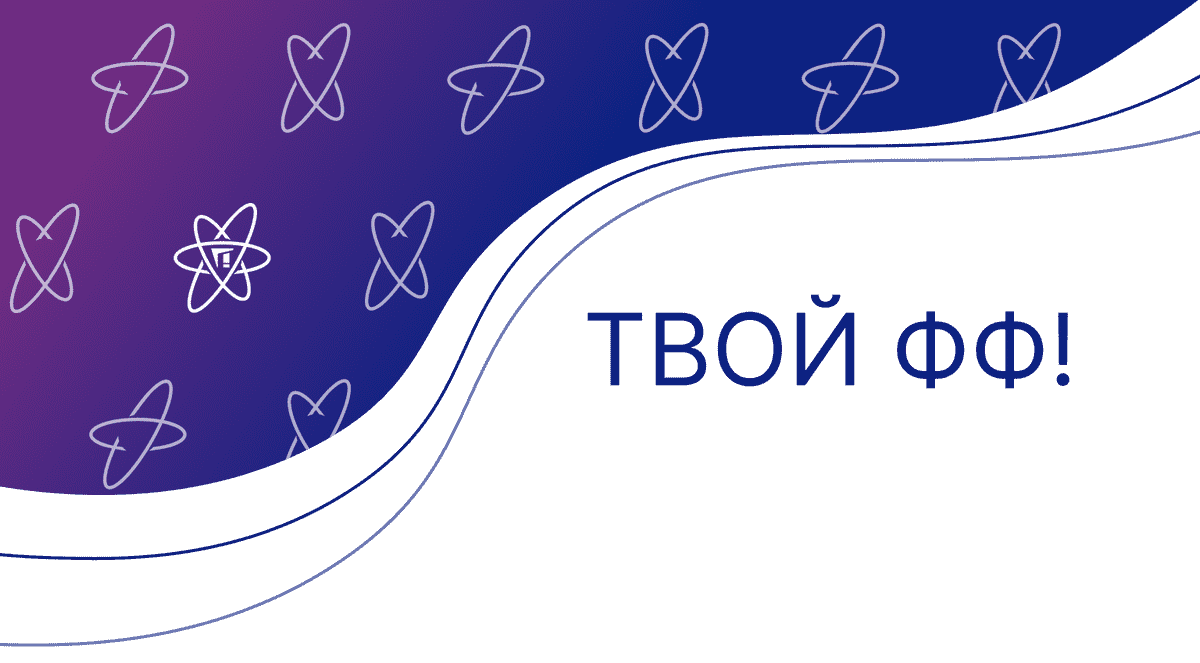
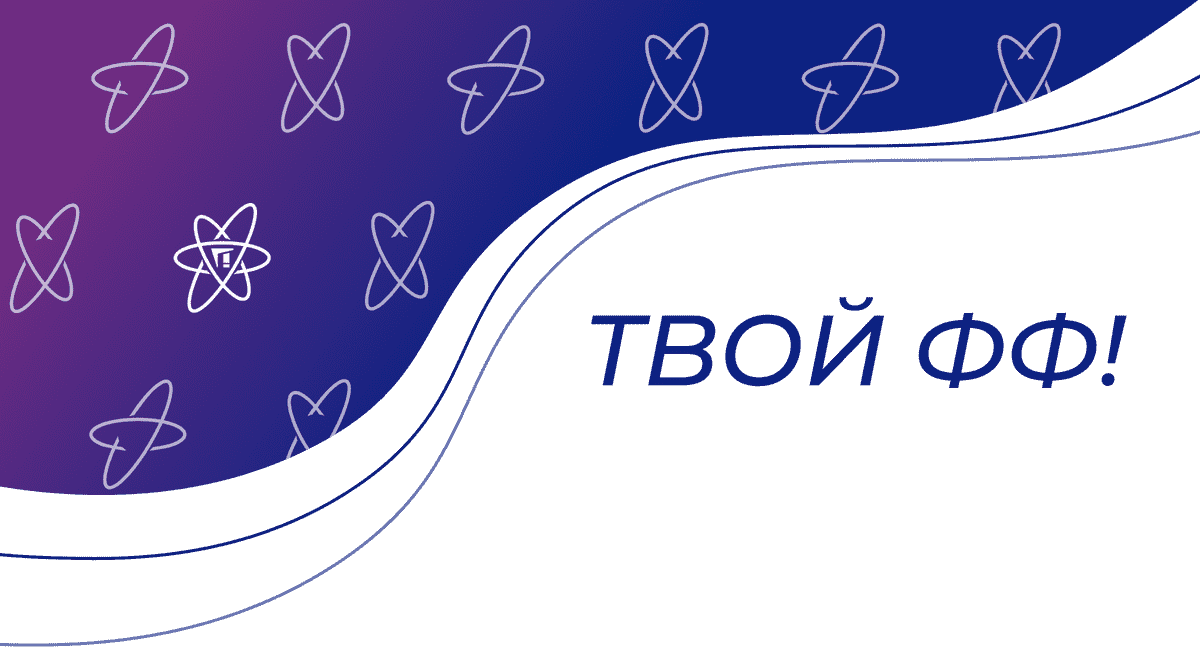
- fix fonts and change texts

Changed region(s): [[0.4933, 0.4223, 0.9558, 0.6033]]

diff --git a/auth_backend/templates/password_change_notification.html b/auth_backend/templates/password_change_notification.html
@@ -11,7 +11,7 @@
     <meta name="viewport" content="width=device-width, initial-scale=1.0" />
     <title>Твой ФФ!</title>
     <style type="text/css">
-      @import url("https://fonts.googleapis.com/css2?family=Montserrat:wght@700&family=Roboto:wght@400;700&display=swap");
+      @import url("https://fonts.googleapis.com/css2?family=Roboto:wght@400;500&display=swap");
     </style>
 
     <!--[if (gte mso 9)|(IE)]>
@@ -83,7 +83,7 @@
 
         <!--[if (gte mso 9)|(IE)]>
         <table width="600" align="center" border="0" cellspacing="0" cellpadding="0" role="presentation"
-          style="color:#1C1E23;">
+          style="color:#000;">
         <tr>
         <td>
       <![endif]-->
@@ -95,7 +95,7 @@
           cellpadding="0"
           role="presentation"
           style="
-            color: #1c1e23;
+            color: #000;
             font-family: 'Roboto', sans-serif, Arial, Helvetica;
             background-color: #fafdfe;
             margin: 0;
@@ -114,61 +114,28 @@
           </tr>
           <tr>
             <td align="center" style="padding-bottom: 32px">
-              <b
-                style="
-                  font-size: 24px;
-                  font-family: 'Montserrat', sans-serif, Arial, Helvetica;
-                "
-                >Пароль изменен</b
-              >
+              <h1 style="margin: 0; font-size: 24px; font-weight: 500">
+                Ваш пароль изменен
+              </h1>
             </td>
           </tr>
           <tr>
-            <td align="left" style="padding: 0 6% 32px 6%">
-              <p style="margin: 0">
-                Пароль Вашего аккаунта в приложении Твой ФФ! был изменен
-                успешно.
-              </p>
+            <td align="left" style="padding: 0 6% 16px 6%">
+              <p style="margin: 0">Здравствуйте!</p>
               <p style="margin: 16px 0 0 0">
+                Пароль от вашего аккаунта в «Твой ФФ» успешно изменен!
+              </p>
+            </td>
+          </tr>
+          <tr>
+            <td style="padding: 0 6% 64px 6%">
+              <p style="margin: 0">
                 <i
-                  >Если это были не Вы, обратитесь в Профком как можно
-                  скорее.</i
+                  >Если вы этого не делали, восстановите доступ к аккаунту,
+                  нажав кнопку «Забыли пароль» в приложении и установив более
+                  надежный пароль</i
                 >
               </p>
-            </td>
-          </tr>
-          <tr>
-            <td align="center" style="padding-bottom: 64px">
-              <table
-                border="0"
-                cellspacing="0"
-                cellpadding="0"
-                role="presentation"
-                style="
-                  border-spacing: 0;
-                  mso-cellspacing: 0;
-                  mso-padding-alt: 0;
-                "
-              >
-                <tr>
-                  <td
-                    style="
-                      background-color: #0d2283;
-                      line-height: 40px;
-                      padding: 0 22px 0 22px;
-                      border-radius: 999px;
-                    "
-                  >
-                    <a
-                      href="{{url}}"
-                      target="_blank"
-                      style="color: #fff; text-decoration: none; padding: 0"
-                    >
-                      Подтвердить
-                    </a>
-                  </td>
-                </tr>
-              </table>
             </td>
           </tr>
           <tr>

diff --git a/auth_backend/templates/main_confirmation.html b/auth_backend/templates/main_confirmation.html
@@ -11,7 +11,7 @@
     <meta name="viewport" content="width=device-width, initial-scale=1.0" />
     <title>Твой ФФ!</title>
     <style type="text/css">
-      @import url("https://fonts.googleapis.com/css2?family=Montserrat:wght@700&family=Roboto:wght@400;700&display=swap");
+      @import url("https://fonts.googleapis.com/css2?family=Roboto:wght@400;500&display=swap");
     </style>
 
     <!--[if (gte mso 9)|(IE)]>
@@ -114,22 +114,25 @@
           </tr>
           <tr>
             <td align="center" style="padding-bottom: 32px">
-              <b style="font-size: 24px; font-family: 'Montserrat', sans-serif, Arial, Helvetica;">Подтвердите свой email</b>
+              <h1 style="margin: 0; font-size: 24px; font-weight: 500">
+                Регистрация успешно пройдена!
+              </h1>
             </td>
           </tr>
           <tr>
-            <td align="left" style="padding: 0 6% 32px 6%">
-              <p style="Margin: 0">
-                Нажав кнопку, Вы подтвердите адрес электронной почты Вашего
-                акканута и получите доступ ко всем функциям приложения Твой ФФ!
+            <td align="left" style="padding: 0 6% 16px 6%">
+              <p style="margin: 0">Здравствуйте!</p>
+              <p style="margin: 16px 0 0 0">
+                Благодарим за регистрацию в «Твой ФФ». Теперь ты сможешь
+                пользоваться всем функционалом нашего приложения!
               </p>
-              <p style="Margin: 16px 0 0 0">
-                <i>Если это были не Вы, проигнорируйте это письмо.</i>
+              <p style="margin: 0">
+                Для завершения регистрации нажмите на кнопку:
               </p>
             </td>
           </tr>
           <tr>
-            <td align="center" style="padding-bottom: 64px">
+            <td align="center" style="padding: 0 6% 32px 6%">
               <table
                 border="0"
                 cellspacing="0"
@@ -160,6 +163,16 @@
                   </td>
                 </tr>
               </table>
+            </td>
+          </tr>
+          <tr>
+            <td style="padding: 0 6% 64px 6%">
+              <p style="margin: 0">
+                <i
+                  >Если вы не оставляли этот запрос, просто проигнорируйте это
+                  письмо.</i
+                >
+              </p>
             </td>
           </tr>
           <tr>

diff --git a/auth_backend/templates/mail_change_confirmation.html b/auth_backend/templates/mail_change_confirmation.html
@@ -11,7 +11,7 @@
     <meta name="viewport" content="width=device-width, initial-scale=1.0" />
     <title>Твой ФФ!</title>
     <style type="text/css">
-      @import url("https://fonts.googleapis.com/css2?family=Montserrat:wght@700&family=Roboto:wght@400;700&display=swap");
+      @import url("https://fonts.googleapis.com/css2?family=Roboto:wght@400;500&display=swap");
     </style>
 
     <!--[if (gte mso 9)|(IE)]>
@@ -114,28 +114,23 @@
           </tr>
           <tr>
             <td align="center" style="padding-bottom: 32px">
-              <b
-                style="
-                  font-size: 24px;
-                  font-family: 'Montserrat', sans-serif, Arial, Helvetica;
-                "
-                >Изменение email</b
-              >
+              <h1 style="margin: 0; font-size: 24px; font-weight: 500">
+                Изменение почты в «Твой ФФ»
+              </h1>
             </td>
           </tr>
           <tr>
-            <td align="left" style="padding: 0 6% 32px 6%">
-              <p style="margin: 0">
-                Нажав кнопку, Вы завершите изменение адреса электронной почты
-                Вашего аккаунта в приложении Твой ФФ!
-              </p>
+            <td align="left" style="padding: 0 6% 16px 6%">
+              <p style="margin: 0">Здравствуйте!</p>
               <p style="margin: 16px 0 0 0">
-                <i>Если это были не Вы, проигнорируйте это письмо.</i>
+                Вы оставили запрос на изменение адреса электронной почты,
+                привязанного к вашему аккаунту в «Твой ФФ». Для завершения
+                процедуры необходимо нажать на кнопку:
               </p>
             </td>
           </tr>
           <tr>
-            <td align="center" style="padding-bottom: 64px">
+            <td align="center" style="padding: 0 6% 32px 6%">
               <table
                 border="0"
                 cellspacing="0"
@@ -166,6 +161,16 @@
                   </td>
                 </tr>
               </table>
+            </td>
+          </tr>
+          <tr>
+            <td style="padding: 0 6% 64px 6%">
+              <p style="margin: 0">
+                <i
+                  >Если вы не оставляли этот запрос, просто проигнорируйте это
+                  письмо.</i
+                >
+              </p>
             </td>
           </tr>
           <tr>

diff --git a/auth_backend/templates/password_change_confirmation.html b/auth_backend/templates/password_change_confirmation.html
@@ -11,7 +11,7 @@
     <meta name="viewport" content="width=device-width, initial-scale=1.0" />
     <title>Твой ФФ!</title>
     <style type="text/css">
-      @import url("https://fonts.googleapis.com/css2?family=Montserrat:wght@700&family=Roboto:wght@400;700&display=swap");
+      @import url("https://fonts.googleapis.com/css2?family=Roboto:wght@400;500&display=swap");
     </style>
 
     <!--[if (gte mso 9)|(IE)]>
@@ -114,22 +114,22 @@
           </tr>
           <tr>
             <td align="center" style="padding-bottom: 32px">
-              <b style="font-size: 24px; font-family: 'Montserrat', sans-serif, Arial, Helvetica;">Изменение пароля</b>
+              <h1 style="margin: 0; font-size: 24px; font-weight: 500">
+                Изменение пароля от «Твой ФФ»
+              </h1>
             </td>
           </tr>
           <tr>
-            <td align="left" style="padding: 0 6% 32px 6%">
-              <p style="Margin: 0">
-                Нажав кнопку, Вы завершите изменение пароля Вашего
-                акканута в приложении Твой ФФ!
-              </p>
-              <p style="Margin: 16px 0 0 0">
-                <i>Если это были не Вы, проигнорируйте это письмо.</i>
+            <td align="left" style="padding: 0 6% 16px 6%">
+              <p style="margin: 0">Здравствуйте!</p>
+              <p style="margin: 16px 0 0 0">
+                Вы оставили запрос на изменение пароля от вашего аккаунта в
+                «Твой ФФ» Для завершения процедуры необходимо нажать на кнопку:
               </p>
             </td>
           </tr>
           <tr>
-            <td align="center" style="padding-bottom: 64px">
+            <td align="center" style="padding: 0 6% 32px 6%">
               <table
                 border="0"
                 cellspacing="0"
@@ -160,6 +160,16 @@
                   </td>
                 </tr>
               </table>
+            </td>
+          </tr>
+          <tr>
+            <td style="padding: 0 6% 64px 6%">
+              <p style="margin: 0">
+                <i
+                  >Если вы не оставляли этот запрос, просто проигнорируйте это
+                  письмо.</i
+                >
+              </p>
             </td>
           </tr>
           <tr>
